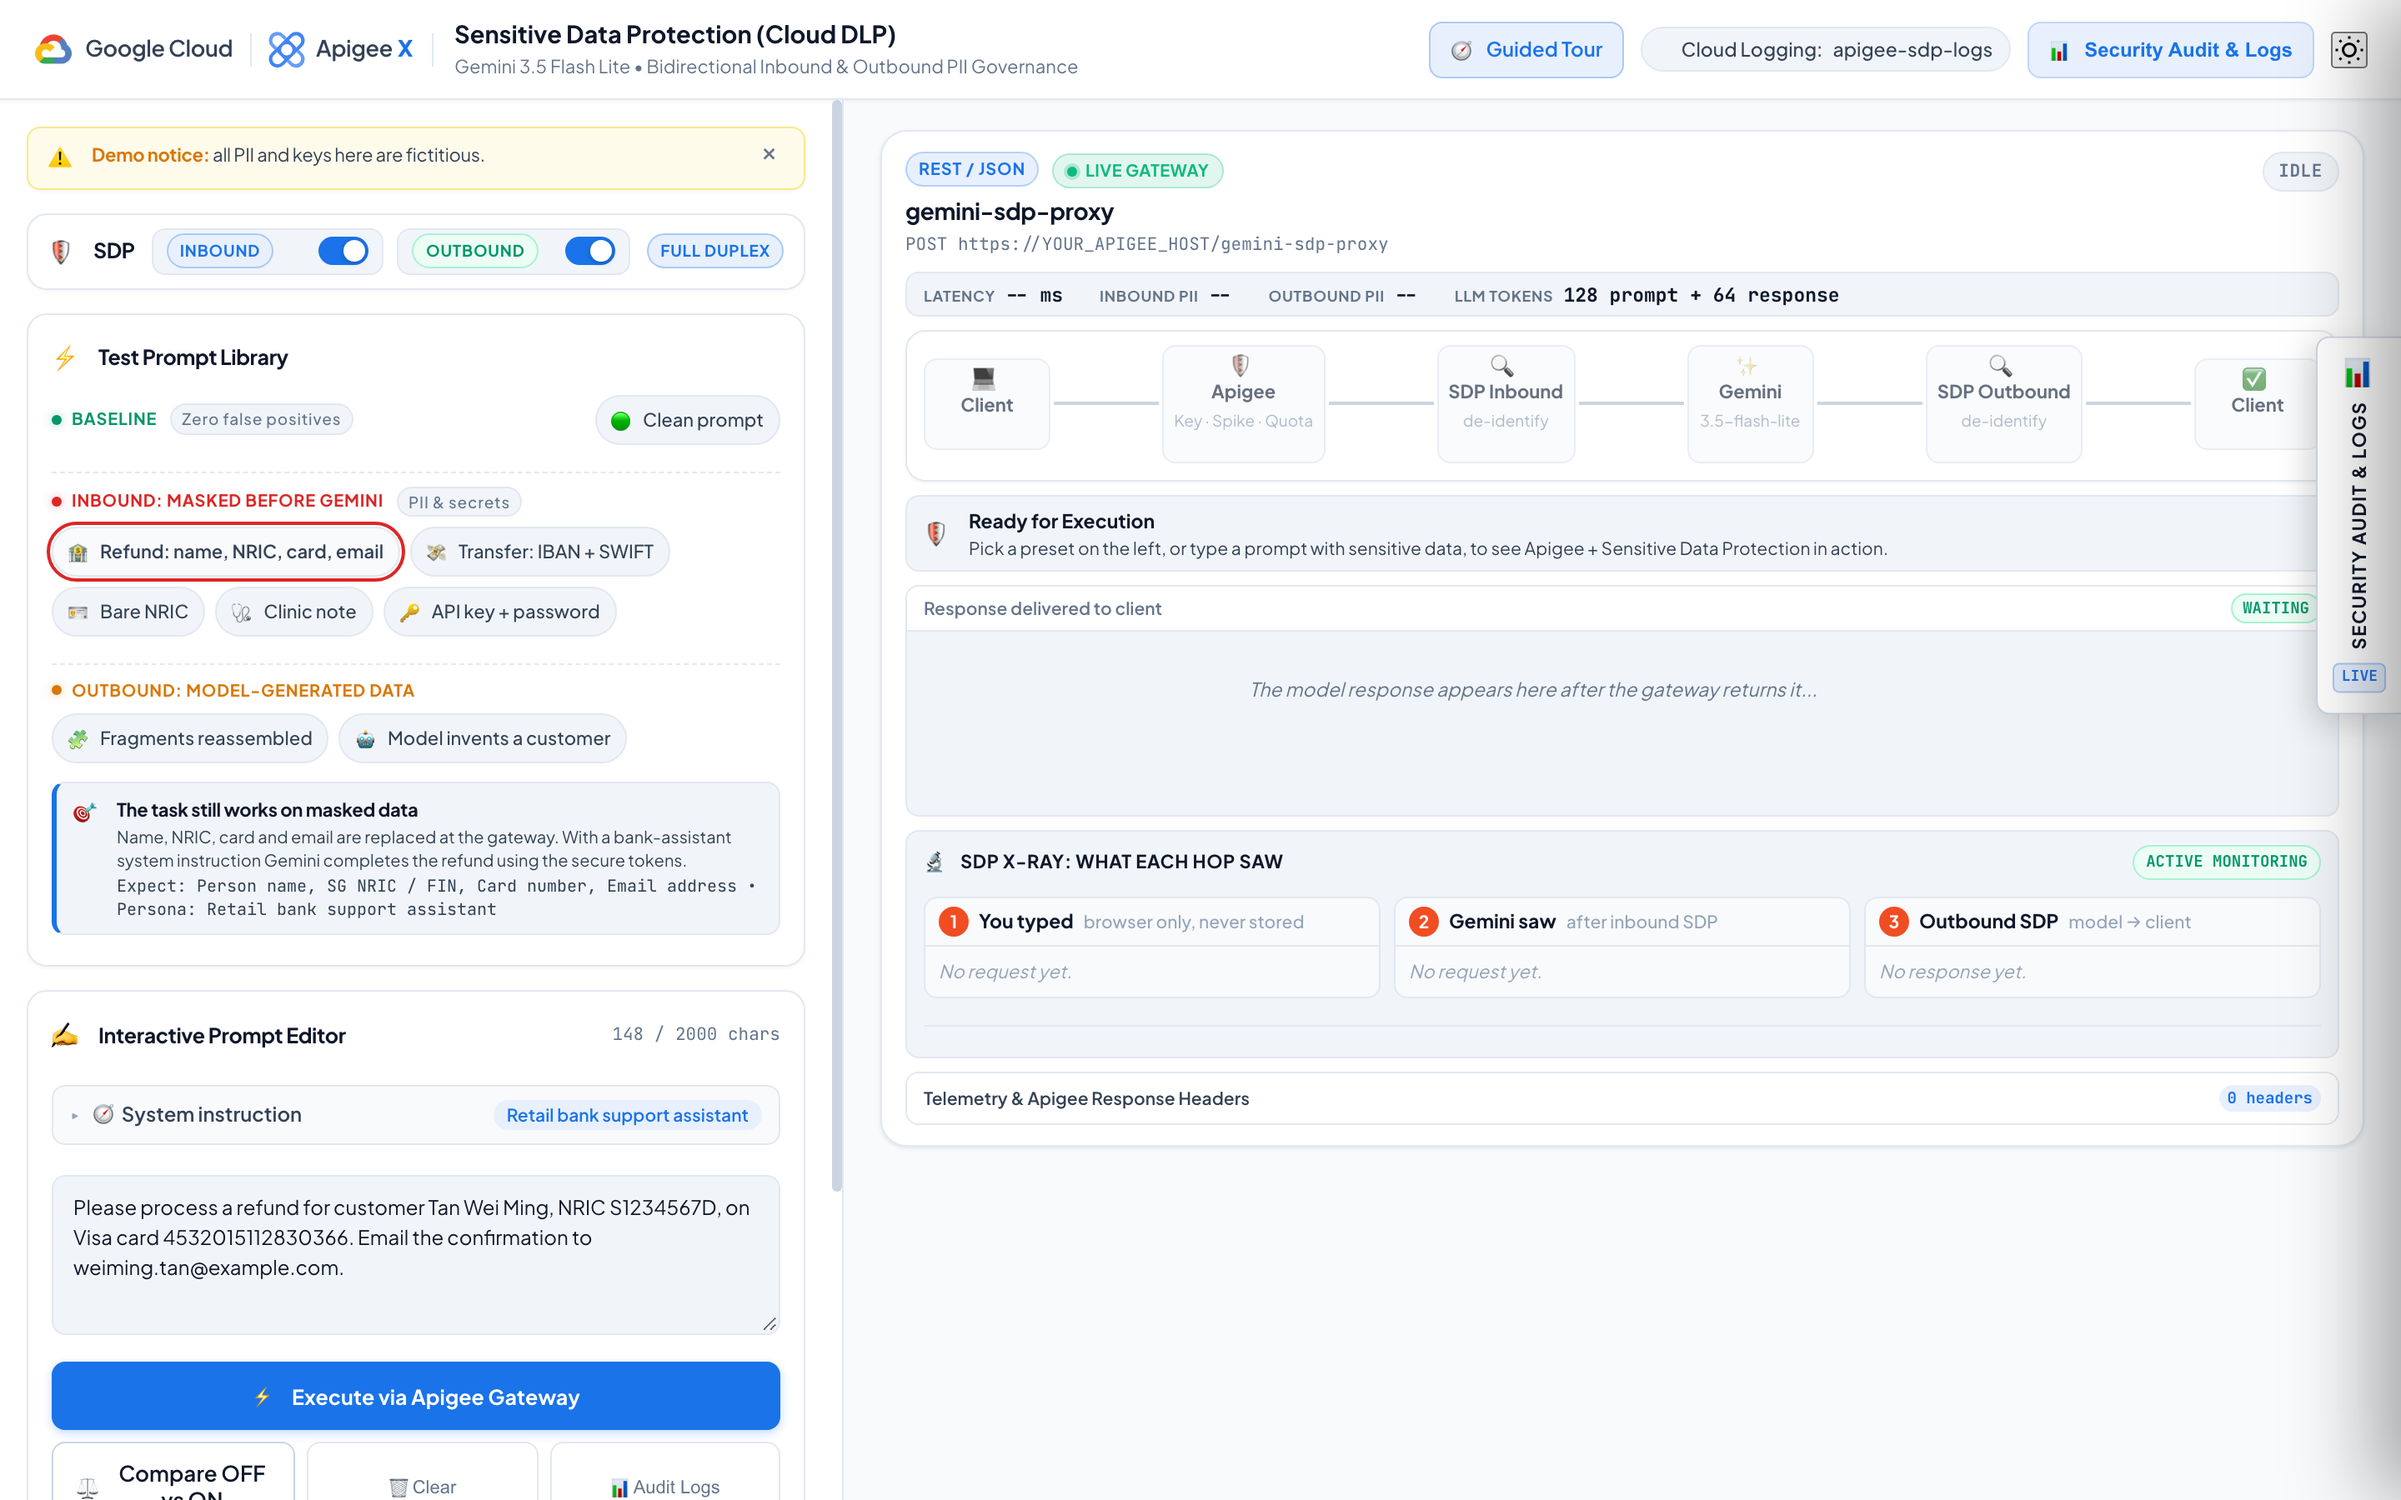
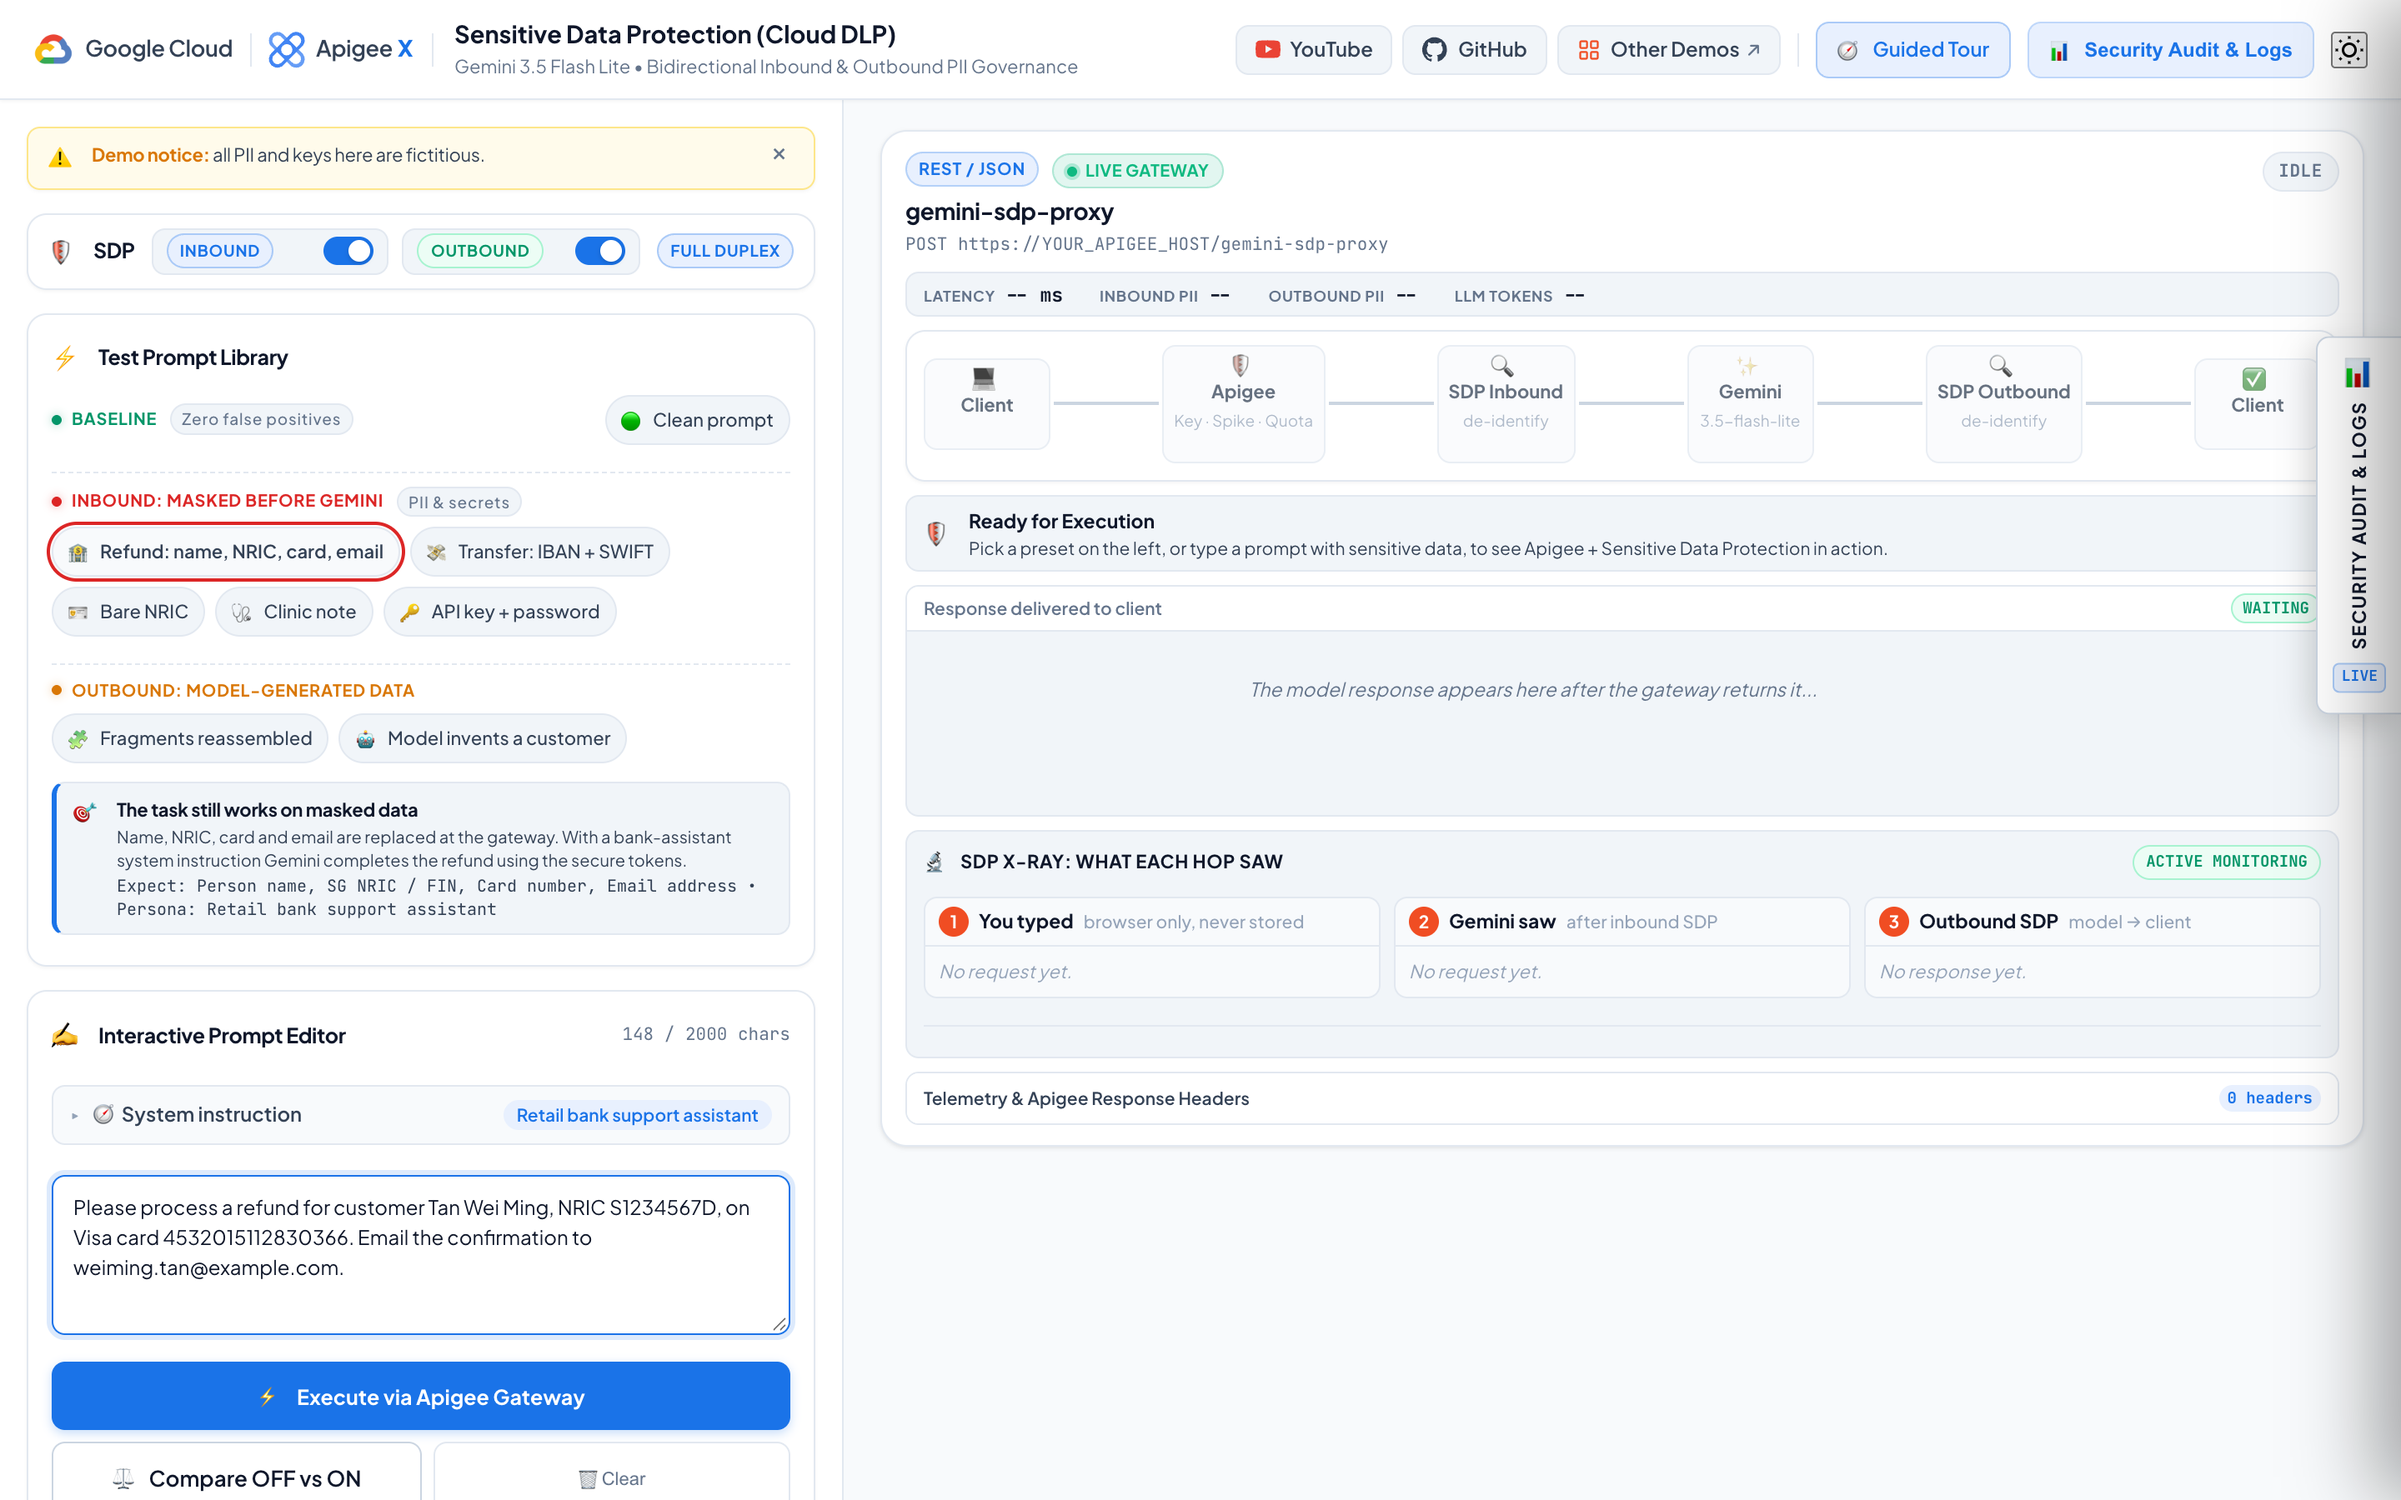
feat(web-ui): add YouTube, GitHub and demo-hub header links; remove log pill and left Audit Logs button

diff --git a/WebUI/static/index.html b/WebUI/static/index.html
@@ -65,21 +65,50 @@
             </div>
 
             <div class="header-actions">
+                <nav class="header-links" aria-label="Demo resources">
+                    <a class="header-link header-link-youtube"
+                       href="https://www.youtube.com/watch?v=LCxFRA9sKw0"
+                       target="_blank" rel="noopener noreferrer"
+                       title="Watch the demo video on YouTube">
+                        <svg class="header-link-icon yt-icon" viewBox="0 0 24 24" width="15" height="15" aria-hidden="true">
+                            <path fill="currentColor" d="M23.5 6.2a3 3 0 0 0-2.1-2.1C19.5 3.5 12 3.5 12 3.5s-7.5 0-9.4.6A3 3 0 0 0 .5 6.2 31.4 31.4 0 0 0 0 12a31.4 31.4 0 0 0 .5 5.8 3 3 0 0 0 2.1 2.1c1.9.6 9.4.6 9.4.6s7.5 0 9.4-.6a3 3 0 0 0 2.1-2.1A31.4 31.4 0 0 0 24 12a31.4 31.4 0 0 0-.5-5.8zM9.6 15.6V8.4l6.3 3.6-6.3 3.6z"/>
+                        </svg>
+                        <span class="header-link-label">YouTube</span>
+                    </a>
+
+                    <a class="header-link header-link-github"
+                       href="https://github.com/welylau/apigee-sdp-demo"
+                       target="_blank" rel="noopener noreferrer"
+                       title="View source code on GitHub (welylau/apigee-sdp-demo)">
+                        <svg class="header-link-icon gh-icon" viewBox="0 0 24 24" width="15" height="15" aria-hidden="true">
+                            <path fill="currentColor" d="M12 .5a12 12 0 0 0-3.8 23.4c.6.1.8-.3.8-.6v-2.1c-3.3.7-4-1.6-4-1.6-.5-1.4-1.3-1.8-1.3-1.8-1.1-.7.1-.7.1-.7 1.2.1 1.8 1.2 1.8 1.2 1.1 1.8 2.8 1.3 3.5 1 .1-.8.4-1.3.8-1.6-2.7-.3-5.5-1.3-5.5-5.9 0-1.3.5-2.4 1.2-3.2-.1-.3-.5-1.5.1-3.2 0 0 1-.3 3.3 1.2a11.5 11.5 0 0 1 6 0c2.3-1.5 3.3-1.2 3.3-1.2.6 1.7.2 2.9.1 3.2.8.8 1.2 1.9 1.2 3.2 0 4.6-2.8 5.6-5.5 5.9.4.4.8 1.1.8 2.2v3.3c0 .3.2.7.8.6A12 12 0 0 0 12 .5z"/>
+                        </svg>
+                        <span class="header-link-label">GitHub</span>
+                    </a>
+
+                    <a class="header-link header-link-demos"
+                       href="https://ai.YOUR_DOMAIN/"
+                       target="_blank" rel="noopener noreferrer"
+                       title="Checkout other Apigee AI Gateway demos at ai.YOUR_DOMAIN">
+                        <svg class="header-link-icon demos-icon" viewBox="0 0 24 24" width="14" height="14" fill="none" stroke="currentColor" stroke-width="2" stroke-linecap="round" stroke-linejoin="round" aria-hidden="true">
+                            <rect x="3" y="3" width="7" height="7" rx="1.5"></rect>
+                            <rect x="14" y="3" width="7" height="7" rx="1.5"></rect>
+                            <rect x="3" y="14" width="7" height="7" rx="1.5"></rect>
+                            <rect x="14" y="14" width="7" height="7" rx="1.5"></rect>
+                        </svg>
+                        <span class="header-link-label">Other Demos</span>
+                        <span class="header-link-ext" aria-hidden="true">↗</span>
+                    </a>
+                </nav>
+
+                <div class="brand-divider header-links-divider" aria-hidden="true"></div>
+
                 <!-- TOUR:BEGIN -->
                 <button type="button" class="header-tour-btn" id="headerTourBtn" title="Open the interactive Guided Tour">
                     <span aria-hidden="true">🧭</span>
                     <span>Guided Tour</span>
                 </button>
                 <!-- TOUR:END -->
-
-                <!-- Gateway badge: Cloud Logging destination -->
-                <div class="arch-tags">
-                    <div class="arch-pill" title="Cloud Logging Log Destination">
-                        <span class="pill-dot blue-dot"></span>
-                        <span class="pill-label">Cloud Logging:</span>
-                        <span class="pill-value" id="headerLogId">apigee-sdp-logs</span>
-                    </div>
-                </div>
 
                 <!-- Admin Analytics Button -->
                 <button type="button" class="admin-nav-btn" id="btnOpenAdmin" title="Open Cloud Logging Audit Trail &amp; Analytics">
@@ -309,9 +338,6 @@
                             </button>
                             <button class="btn-util" id="clearBtn" title="Clear prompt">
                                 <span class="util-icon">🗑</span> Clear
-                            </button>
-                            <button class="btn-util" id="btnOpenAdminFromLeft" title="View Cloud Logging audit trail">
-                                <span class="util-icon">📊</span> Audit Logs
                             </button>
                         </div>
                     </div>

diff --git a/WebUI/static/demo-v2.css b/WebUI/static/demo-v2.css
@@ -301,3 +301,80 @@ mark.pii-raw.pii-leaked {
 #resultCard .xray-grid { gap: 8px; margin-top: 4px; }
 #resultCard .xray-head { padding: 5px 8px; font-size: 11.5px; }
 #resultCard .xray-body { padding: 7px 8px; font-size: 11px; line-height: 1.5; max-height: 300px; }
+
+/* ---------- Header external resource links (YouTube, GitHub, Other Demos) ---------- */
+.header-links {
+  display: inline-flex;
+  align-items: center;
+  gap: 6px;
+}
+
+.header-link {
+  display: inline-flex;
+  align-items: center;
+  gap: 6px;
+  height: 30px;
+  padding: 0 11px;
+  font: 600 12px/1 var(--font-sans);
+  color: var(--text-secondary);
+  background: var(--bg-tertiary);
+  border: 1px solid var(--border-subtle);
+  border-radius: var(--radius-sm);
+  text-decoration: none;
+  white-space: nowrap;
+  transition: color 0.15s ease, background 0.15s ease, border-color 0.15s ease;
+}
+
+.header-link:hover {
+  color: var(--text-main);
+  background: var(--bg-card-hover);
+  border-color: var(--border-accent);
+}
+
+.header-link:focus-visible {
+  outline: 2px solid var(--border-focus);
+  outline-offset: 2px;
+}
+
+.header-link-icon {
+  flex-shrink: 0;
+  display: block;
+}
+
+.header-link-youtube .yt-icon {
+  color: var(--google-red);
+}
+.header-link-youtube:hover {
+  color: var(--danger);
+  background: var(--danger-bg);
+  border-color: var(--danger-border);
+}
+
+.header-link-demos .demos-icon {
+  color: var(--apigee-orange);
+}
+.header-link-demos:hover {
+  color: var(--apigee-orange);
+  background: var(--apigee-subtle);
+  border-color: var(--apigee-border);
+}
+
+.header-link-ext {
+  font-size: 11px;
+  color: var(--text-muted);
+  margin-left: -2px;
+}
+.header-link-demos:hover .header-link-ext {
+  color: var(--apigee-orange);
+}
+
+@media (max-width: 1180px) {
+  .header-link {
+    padding: 6px 8px;
+  }
+  .header-link-label,
+  .header-link-ext {
+    display: none;
+  }
+}
+

diff --git a/WebUI/static/app.js b/WebUI/static/app.js
@@ -259,7 +259,7 @@ document.addEventListener("DOMContentLoaded", () => {
         $("brandSubtitle").textContent = `${prettyModel} • Bidirectional Inbound & Outbound PII Governance`;
         $("pipeModelName").textContent = config.model.replace(/^gemini-/, "");
         $("endpointPath").textContent = `POST ${config.proxyUrl}`;
-        $("headerLogId").textContent = config.logId;
+        if ($("headerLogId")) $("headerLogId").textContent = config.logId;
         $("adminLogBadge").textContent = config.logId;
         $("adminProjectBadge").textContent = config.project;
         $("archLogPath").textContent = config.logName;

diff --git a/README.md b/README.md
@@ -207,6 +207,7 @@ curl -s -X POST "https://<your-apigee-host>/gemini-sdp-proxy" \
 * **Guided Tour**: 6 short missions (architecture, zero false positives, inbound masking, outbound catch, bypass governance, audit). Open it from the header, or deep-link with `?tour=<missionId>`.
 * **Security Audit & Logs drawer**: syncs with Cloud Logging (`apigee-sdp-logs`), with KPI cards and filters.
 * **Dual theme** (light and dark) and a resizable splitter.
+* **Header links**: the [YouTube walkthrough](https://www.youtube.com/watch?v=LCxFRA9sKw0), this GitHub repo, and the hub of other Apigee demos, all opening in a new tab.
 * **BFF pattern**: the API key stays in the Python process and never reaches the browser. Raw prompts are never persisted; the local audit store keeps sanitized text only. Locally the server binds to `127.0.0.1`; on Cloud Run it sits behind IAP and reads the key from Secret Manager. Python 3 standard library only (`ThreadingHTTPServer`), no pip dependencies.
 
 ---
